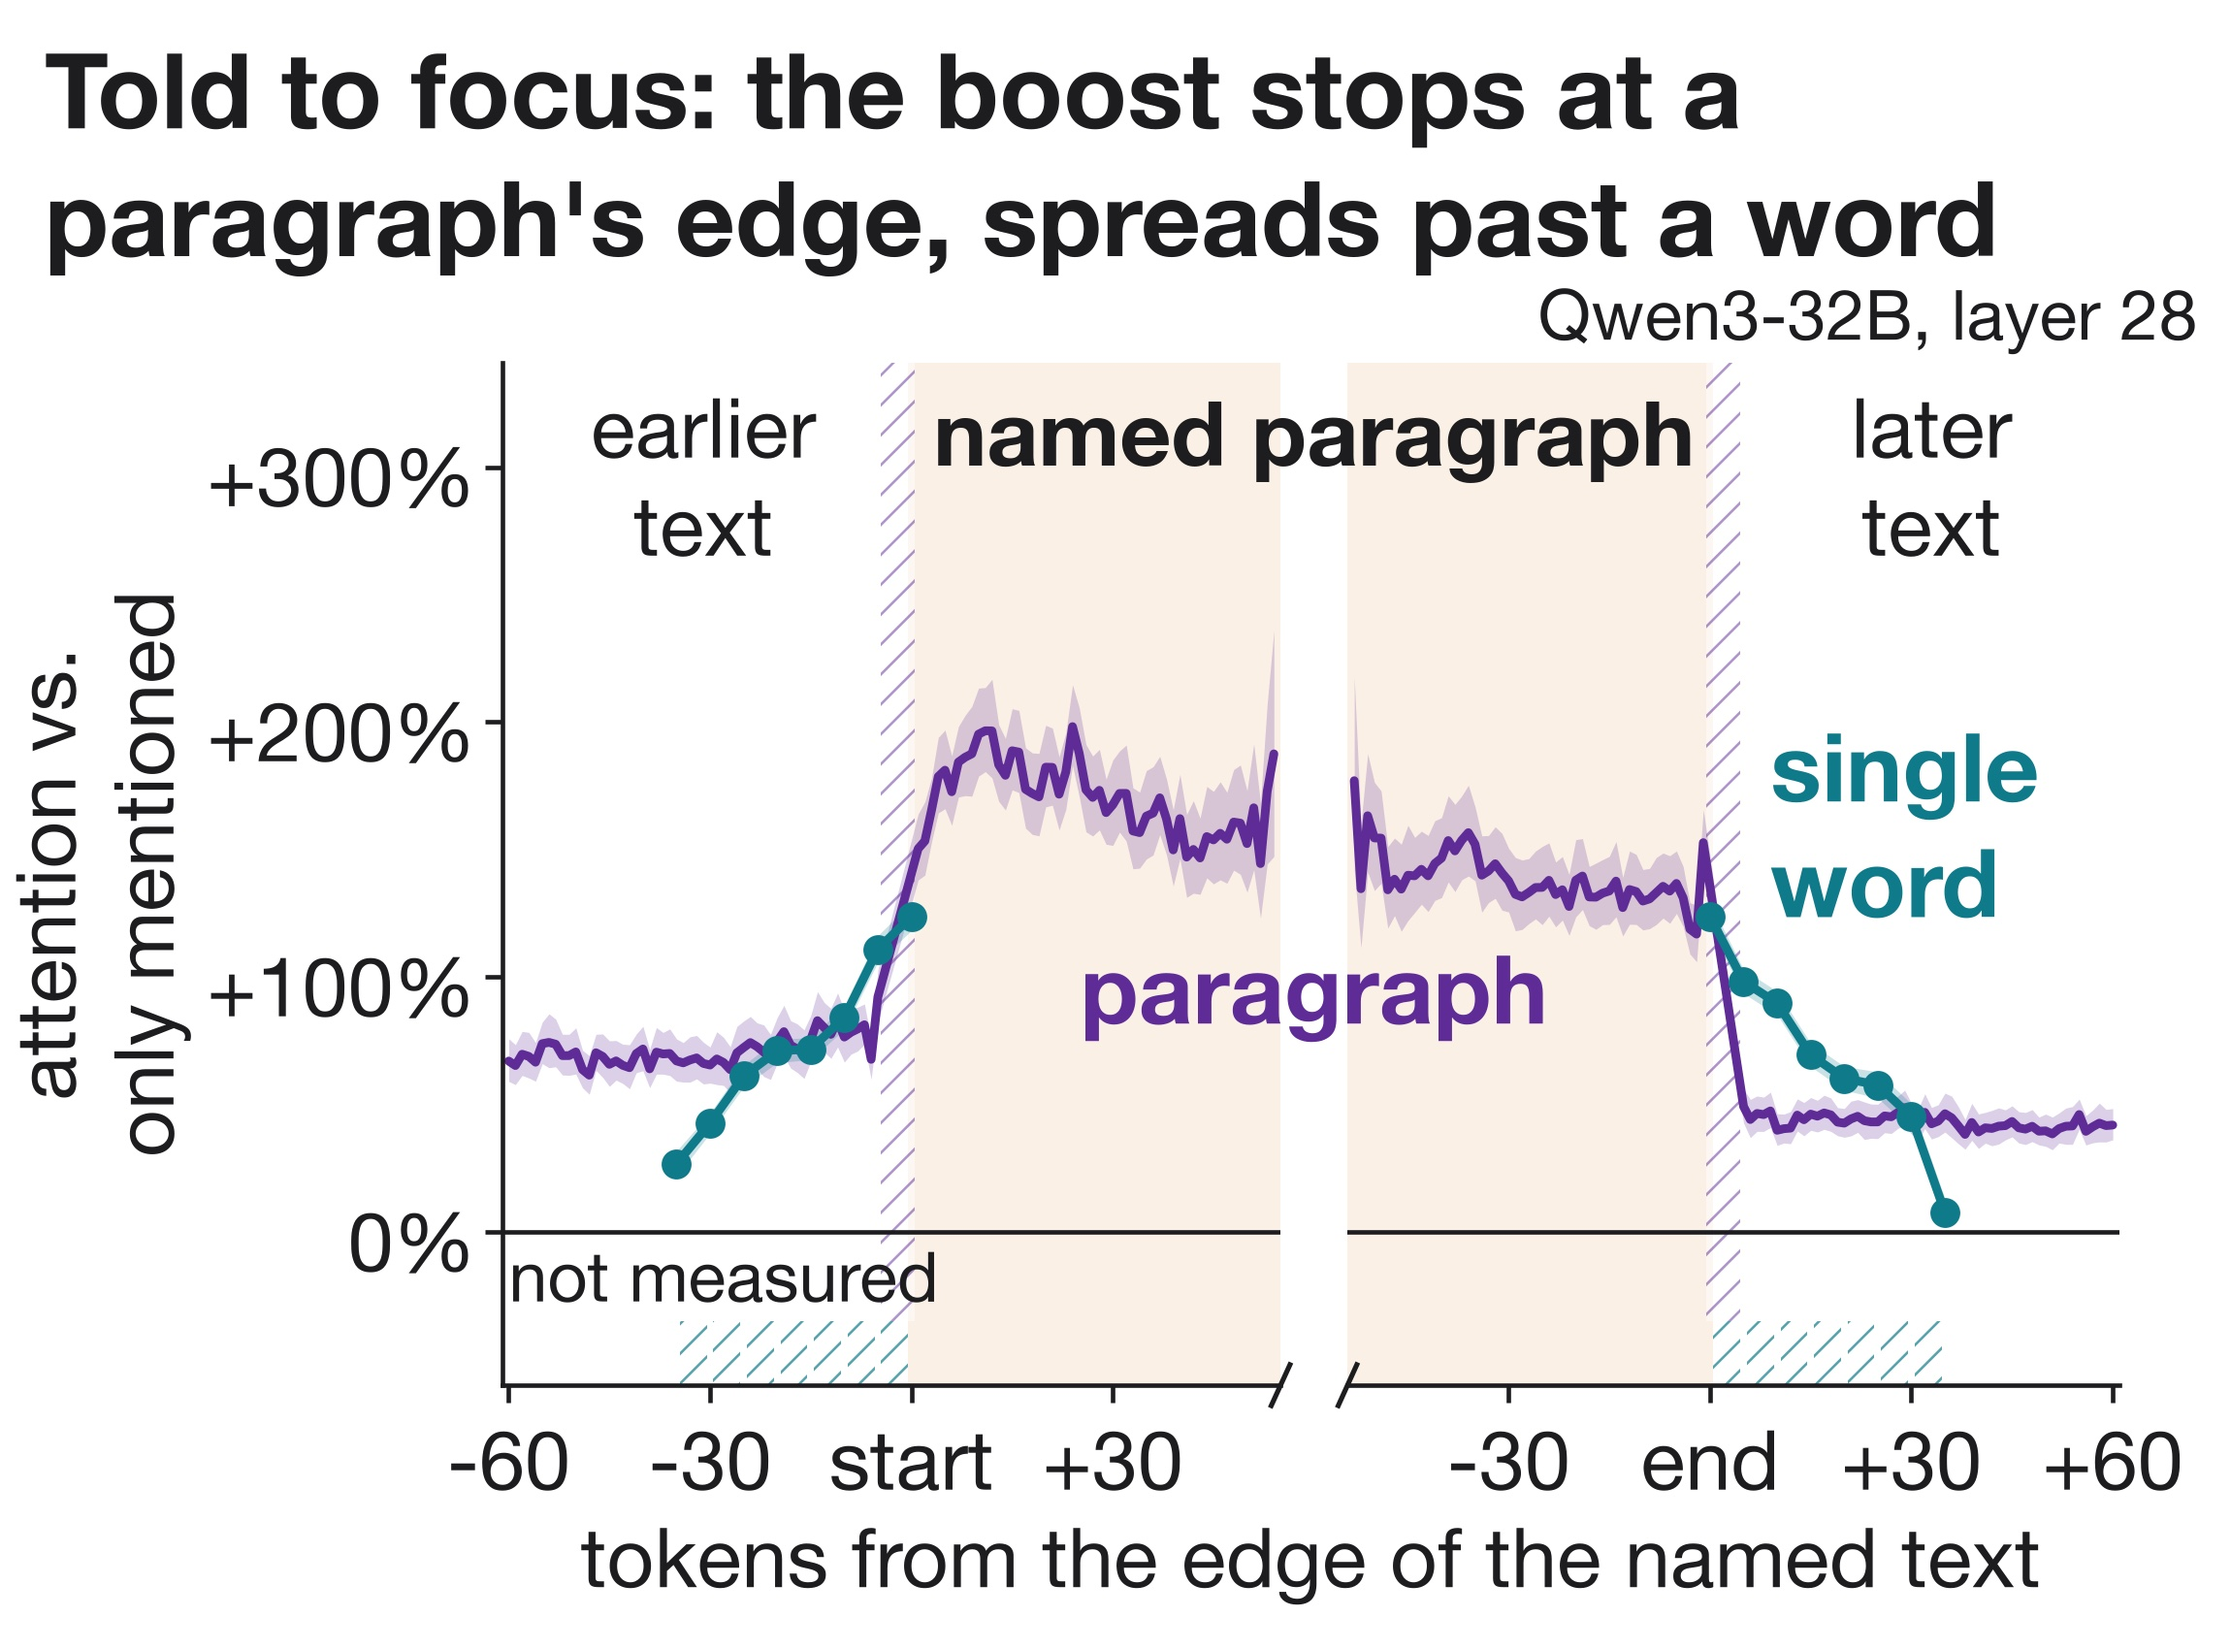
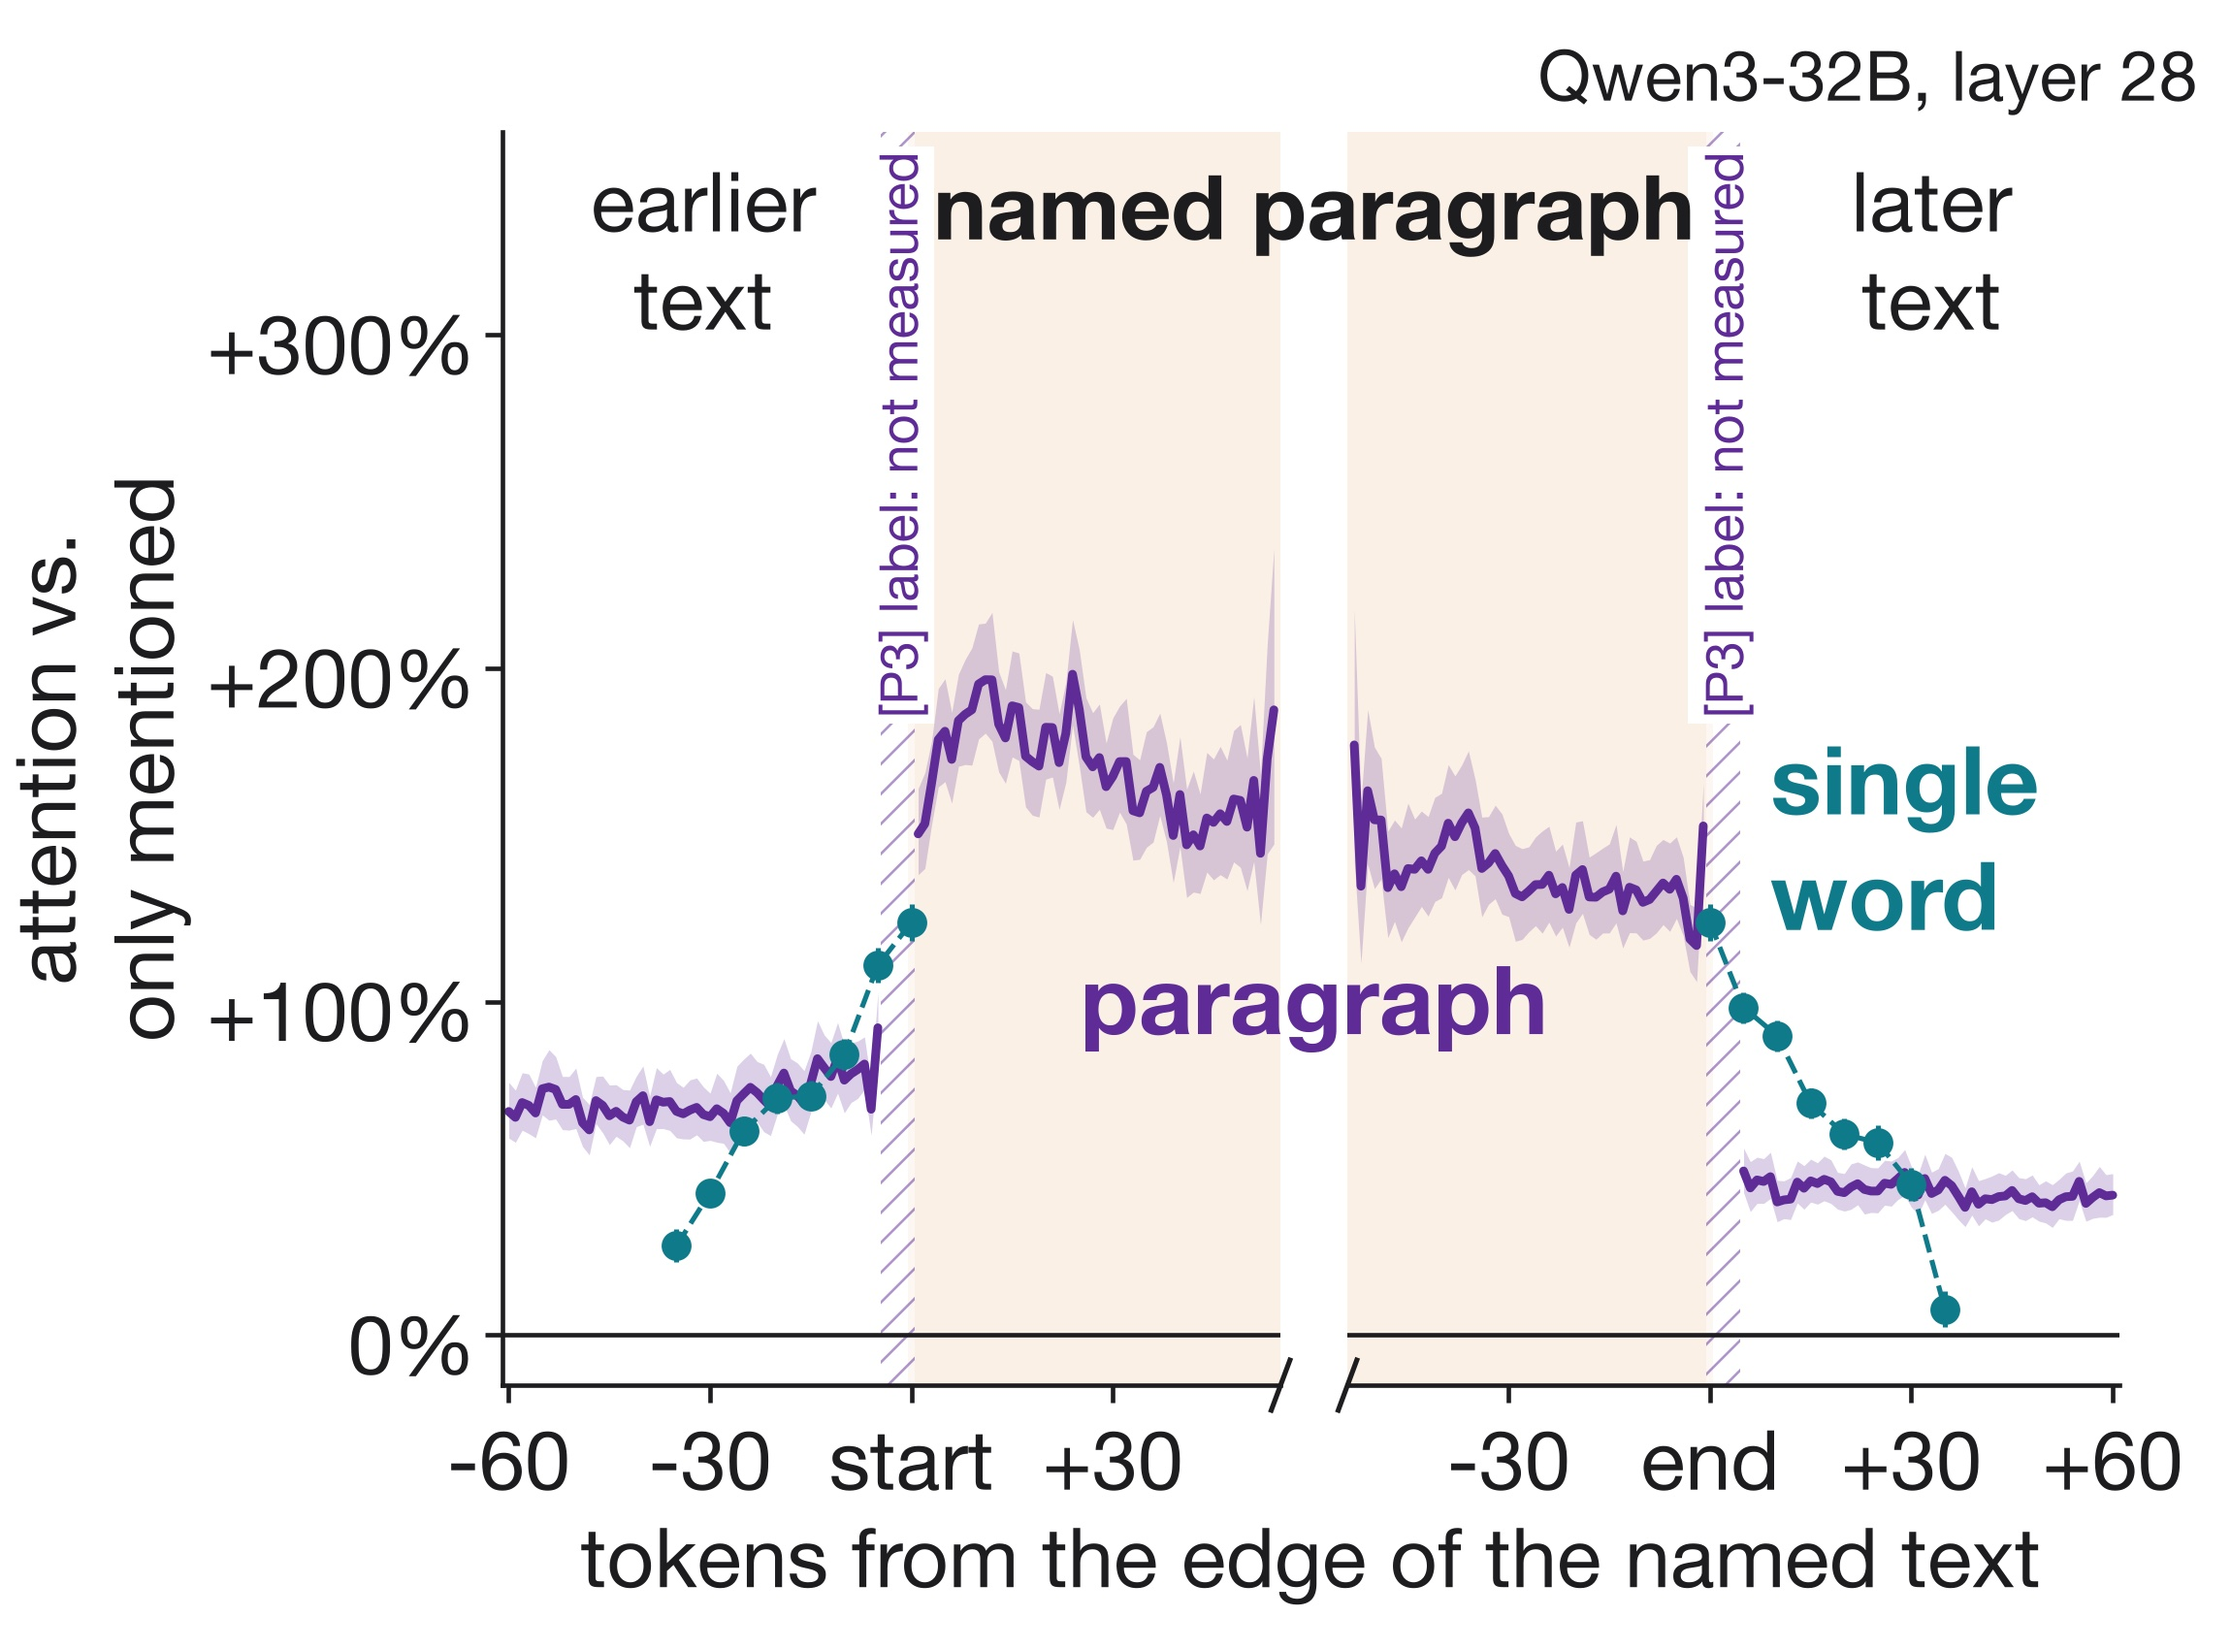
edge_decay: no title; bottom 'not measured' strip removed; lines break across unmeasured tokens; hatched stripe over each paragraph's 5 label tokens labelled '[P3] label: not measured'; single words as dots + CI bars joined by thin dashed line (Sauers)

diff --git a/figures/edge_decay.py b/figures/edge_decay.py
@@ -85,16 +85,16 @@ plt.rcParams.update({"font.family": "Helvetica Neue", "font.size": 33, "text.col
 fig = plt.figure(figsize=(23 / K, 17 / K), dpi=100 * K)
 pct = lambda v, _=None: "0%" if abs(v) < 1e-9 else f"{v:+.0f}%"
 LW = 3.5
-def band(ax, xs, Y, col, **kw):
-    ax.fill_between(xs, Y[:, 1], Y[:, 2], color=col, alpha=.22, lw=0); ax.plot(xs, Y[:, 0], color=col, lw=LW, solid_capstyle="round", **kw)
+def band(ax, xs, Y, col, **kw):  # drawn only through measured tokens: a break wherever a token is missing
+    for seg in np.split(np.arange(len(xs)), np.where(np.diff(xs) > 1)[0] + 1):
+        ax.fill_between(xs[seg], Y[seg, 1], Y[seg, 2], color=col, alpha=.22, lw=0); ax.plot(xs[seg], Y[seg, 0], color=col, lw=LW, solid_capstyle="round", **kw)
 xw, Yw = WD["focus"]
-lo, hi = -60, max(PD["focus"]["S"][1][:, 2].max(), PD["focus"]["E"][1][:, 2].max()) + 105
-L, B, Wd, H, gap = 0.225, 0.16, 0.725, 0.62, 0.03
+lo, hi = -15, max(PD["focus"]["S"][1][:, 2].max(), PD["focus"]["E"][1][:, 2].max()) + 125
+L, B, Wd, H, gap = 0.225, 0.16, 0.725, 0.76, 0.03
 xS, xE = PD["focus"]["S"][0], PD["focus"]["E"][0]
 spanS, spanE = (-XL - 1, xS.max() + 1), (xE.min() - 1, XL + 1)
 fr = (spanS[1] - spanS[0]) / ((spanS[1] - spanS[0]) + (spanE[1] - spanE[0]))
 a1 = fig.add_axes([L, B, (Wd - gap) * fr, H]); a2 = fig.add_axes([L + (Wd - gap) * fr + gap, B, (Wd - gap) * (1 - fr), H], sharey=a1)
-LANE = 25  # word lists: hatched lane marks the 4 unmeasured tokens (newline, line label) between consecutive words
 for ax, key, (x0, x1) in ((a1, "S", spanS), (a2, "E", spanE)):
     for s in ("top", "right"): ax.spines[s].set_visible(False)
     ax.axhline(0, color=INK, lw=1.8, zorder=0); ax.yaxis.set_major_formatter(plt.FuncFormatter(pct))
@@ -102,13 +102,13 @@ for ax, key, (x0, x1) in ((a1, "S", spanS), (a2, "E", spanE)):
     inside = (0, x1) if key == "S" else (x0, 0)
     ax.add_patch(Rectangle((inside[0] - .5 if key == "S" else inside[0], lo), inside[1] - inside[0] + .5, hi - lo, color=CREAM, zorder=-2, lw=0))
     g0 = -4.5 if key == "S" else -.5  # 5 unmeasured tokens: S -4..0 (first word at 0), E 0..4 (the end token at 0)
-    ax.add_patch(Rectangle((g0, lo + LANE), 5, hi - lo - LANE, facecolor="white", edgecolor=PURPLE, hatch="//", lw=0, alpha=.5, zorder=-1))
-    sg = -1 if key == "S" else 1
-    for k in range(7):
-        ax.add_patch(Rectangle((sg * (5 * k + .5) - (4 if sg < 0 else 0), lo), 4, LANE, facecolor="white", edgecolor=TEAL, hatch="//", lw=0, alpha=.7, zorder=-1))
+    ax.add_patch(Rectangle((g0, lo), 5, hi - lo, facecolor="white", edgecolor=PURPLE, hatch="//", lw=0, alpha=.5, zorder=-1))
+    ax.text(g0 + 2.5, 270, "[P3] label: not measured", rotation=90, ha="center", va="center", fontsize=21, color=PURPLE,
+            bbox=dict(facecolor="white", edgecolor="none", pad=2))
     band(ax, PD["focus"][key][0], PD["focus"][key][1], PURPLE)
-    m = (xw <= 0) if key == "S" else (xw >= 0)
-    band(ax, xw[m], Yw[m], TEAL); ax.plot(xw[m], Yw[m, 0], "o", color=TEAL, ms=11)
+    m = (xw <= 0) if key == "S" else (xw >= 0)  # single words: one dot per word (words are 5 tokens apart), 95% CI as bars
+    ax.errorbar(xw[m], Yw[m, 0], yerr=[Yw[m, 0] - Yw[m, 1], Yw[m, 2] - Yw[m, 0]], fmt="o", color=TEAL, ms=11, elinewidth=2, capsize=0, zorder=3)
+    ax.plot(xw[m], Yw[m, 0], "--", color=TEAL, lw=2, zorder=3)
     ax.set_xticks([-60, -30, 0, 30] if key == "S" else [-30, 0, 30, 60]); ax.set_xticklabels(["-60", "-30", "start", "+30"] if key == "S" else ["-30", "end", "+30", "+60"])
 a2.spines["left"].set_visible(False); a2.tick_params(axis="y", left=False, labelleft=False)
 for ax, x in ((a1, 1), (a2, 0)):  # break marks
@@ -116,15 +116,13 @@ for ax, x in ((a1, 1), (a2, 0)):  # break marks
 ytop = hi - 6
 a1.text(-XL / 2 - 1, ytop, "earlier\ntext", ha="center", va="top")
 a2.text(XL / 2 + 3, ytop, "later\ntext", ha="center", va="top")
-a1.text(-XL, lo + LANE + 2, "not measured", ha="left", va="bottom", fontsize=28)
 xb = L + (Wd - gap) * fr + gap / 2; yf = lambda v: B + H * (v - lo) / (hi - lo)  # centred on the axis break, over both halves of the named paragraph
 fig.text(xb, yf(ytop), "named paragraph", ha="center", va="top", fontsize=36, fontweight="bold")
 fig.text(xb, yf(118), "paragraph", color=PURPLE, fontsize=38, fontweight="bold", ha="center", va="top")
 a2.text(9, float(Yw[xw == 5, 2][0]) + 12, "single\nword", color=TEAL, fontsize=38, fontweight="bold", ha="left", va="bottom")
 a1.set_ylabel("attention vs.\nonly mentioned", labelpad=6)
 fig.text(L + Wd / 2, B - 0.075, "tokens from the edge of the named text", ha="center", va="top")
-fig.text(0.02, 0.985, "Told to focus: the boost stops at a\nparagraph's edge, spreads past a word", fontsize=42, fontweight="bold", va="top")
-fig.text(0.985, B + H + 0.005, "Qwen3-32B, layer 28", ha="right", va="bottom", fontsize=28)
+fig.text(0.985, B + H + 0.01, "Qwen3-32B, layer 28", ha="right", va="bottom", fontsize=28)
 fig.savefig(f"{HERE}/edge_decay.png", facecolor="white")
 subprocess.run(["sips", "-s", "format", "jpeg", "-s", "formatOptions", "88", "-Z", "2300", f"{HERE}/edge_decay.png", "--out", f"{HERE}/edge_decay.jpg"], check=True, capture_output=True)
 print("xS near 0:", [int(v) for v in xS if -8 < v < 3], "xE near 0:", [int(v) for v in xE if -3 < v < 8])
